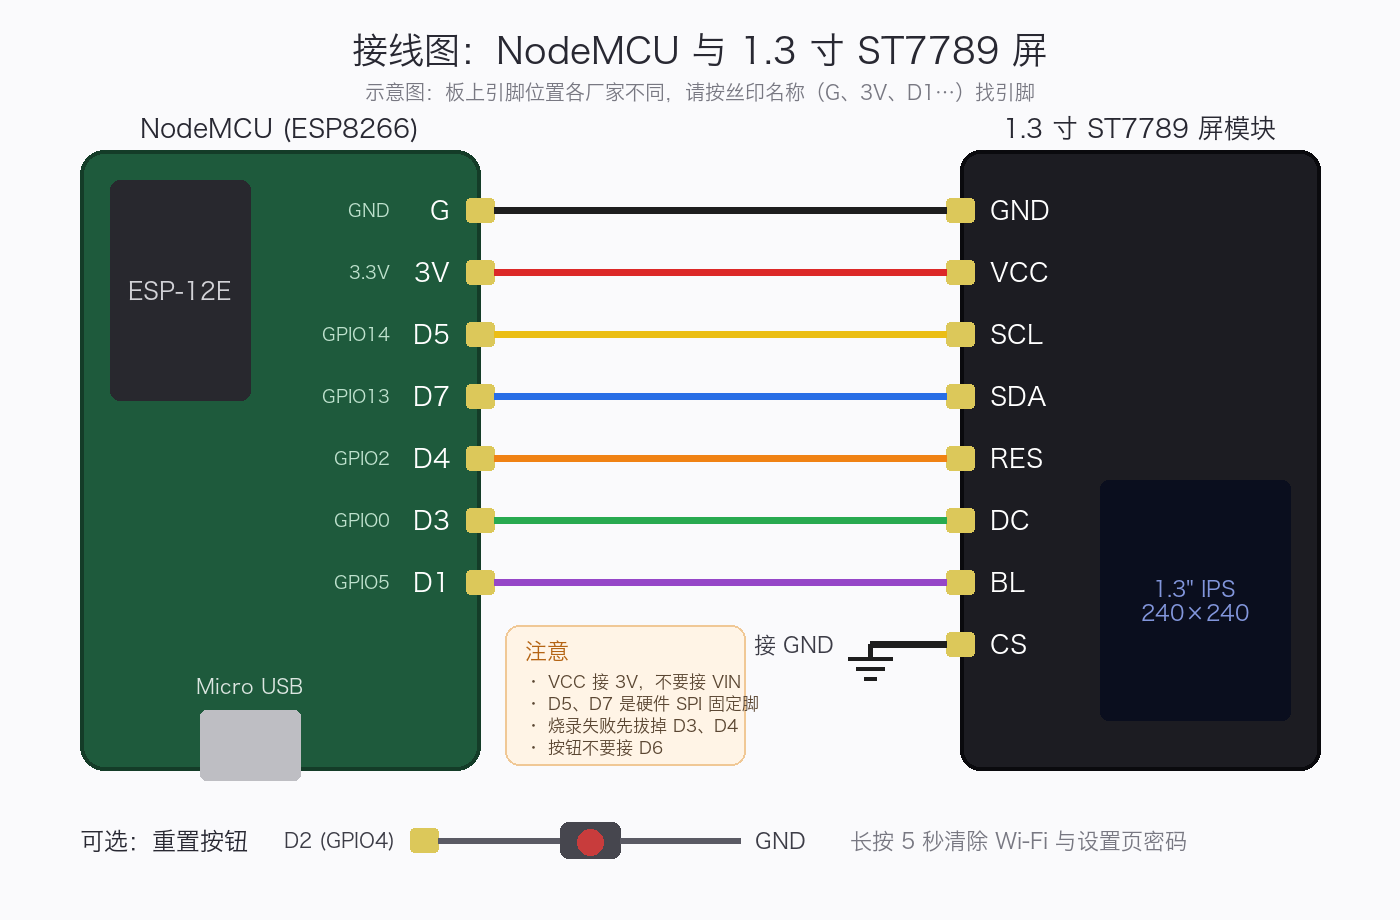
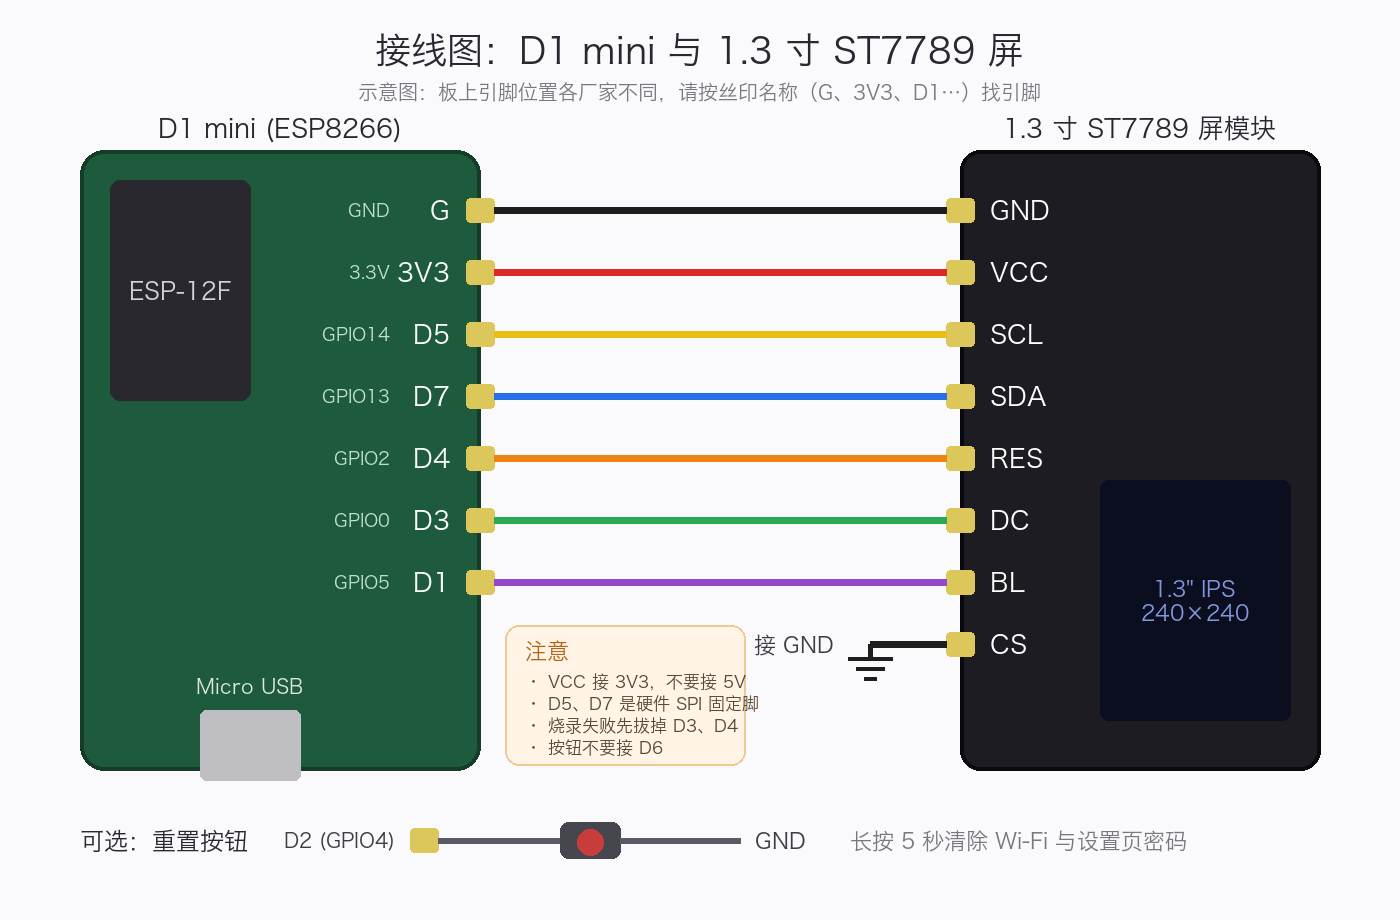
Describe the hardware as D1 mini; update wiring diagram and social image

diff --git a/README.md b/README.md
@@ -1,10 +1,10 @@
 # 爱的小时钟 (Love Clock)
 
-一个用 NodeMCU (ESP8266) 和 1.3 寸 IPS 屏做的桌面小时钟，适合当纪念日礼物。
+一个用 D1 mini (ESP8266) 和 1.3 寸 IPS 屏做的桌面小时钟，适合当纪念日礼物。
 
 <p align="center"><img src="docs/demo.jpg" alt="实物照片" width="420"></p>
 
-> **English summary:** A desk clock for anniversary gifts, built with a NodeMCU (ESP8266) and a 1.3" 240×240 ST7789 IPS display. It rotates between a clock with weather, days together, event countdowns, random photos and love quotes, and shows a full-screen celebration on special days. Everything (Wi-Fi provisioning, events, photos, quotes) is configured from a phone web page, with a Chinese / English UI. Arduino IDE project, GPL-3.0.
+> **English summary:** A desk clock for anniversary gifts, built with a D1 mini (ESP8266) and a 1.3" 240×240 ST7789 IPS display. It rotates between a clock with weather, days together, event countdowns, random photos and love quotes, and shows a full-screen celebration on special days. Everything (Wi-Fi provisioning, events, photos, quotes) is configured from a phone web page, with a Chinese / English UI. Arduino IDE project, GPL-3.0.
 
 屏幕自动轮播：时钟与天气、在一起的天数、倒数日、照片、情话。纪念日当天整天显示庆祝画面。**所有设置都在手机网页里完成，包括 Wi-Fi 配网和照片上传，不需要改代码、不需要重新烧录。**
 
@@ -42,7 +42,7 @@
 
 | 物品 | 说明 |
 |---|---|
-| ESP8266 开发板 | NodeMCU（ESP-12E），或体积更小的 **D1 mini**（ESP-12F），带 USB（CH340 或 CP2102）。3D 外壳按 D1 mini 尺寸设计 |
+| D1 mini 开发板 | ESP8266（ESP-12F），Micro USB，CH340 串口芯片。3D 外壳按它的尺寸设计 |
 | 1.3 寸 IPS 屏 | ST7789 驱动，240×240，SPI 接口，3.3V 版本 |
 | 杜邦线 | 母对母 7 根（按钮可选，再加 1 根） |
 | Micro USB 线 | 供电和烧录，请用能传数据的线 |
@@ -54,7 +54,7 @@
 
 > 左：D1 mini（ESP-12F）开发板；右：1.3 寸 240×240 ST7789 IPS 屏，正反面。
 
-两种板子的引脚丝印都是 D0～D8、G、3V，本项目的接线和代码通用；编译时开发板选 NodeMCU 1.0 即可。
+用 NodeMCU（ESP-12E）也可以：引脚丝印同样是 D0～D8、G，接线和代码通用，只是 3D 外壳装不下。
 
 1.3 寸屏模块常见 7 针或 8 针版本。7 针版本没有 CS 引脚（模块上已通过 J2 短接线接地）。本项目按"CS 接地、软件不控制 CS"设计，8 针版本的 CS 也请接 GND。
 
@@ -68,10 +68,10 @@
 
 | 文件 | 说明 | 外形尺寸（宽×厚×高） |
 |---|---|---|
-| [`stl/Body1.stl`](stl/Body1.stl) | 主体：斜面正面开屏幕窗口，背面开口，四个角有螺丝孔，用来装入屏幕和 NodeMCU | 35 × 37 × 52.2 mm |
+| [`stl/Body1.stl`](stl/Body1.stl) | 主体：斜面正面开屏幕窗口，背面开口，四个角有螺丝孔，用来装入屏幕和 D1 mini | 35 × 37 × 52.2 mm |
 | [`stl/Body2.stl`](stl/Body2.stl) | 后盖：四角螺丝孔，下方留 USB 口，外侧有浮雕文字 | 35 × 1.8 × 48 mm |
 
-装配：把屏幕和 NodeMCU 从背面装进主体，USB 线对准后盖上的开口，再用 4 颗 M2 螺丝把后盖固定在主体背面。
+装配：把屏幕和 D1 mini 从背面装进主体，USB 线对准后盖上的开口，再用 4 颗 M2 螺丝把后盖固定在主体背面。
 
 - **螺丝**：M2，长 4～6 mm，4 颗，直接自攻拧进 3D 打印件，不需要螺母。
 - **打印**：不需要支撑。
@@ -83,10 +83,10 @@
 文字版：
 
 ```
-  1.3 寸屏模块              NodeMCU
+  1.3 寸屏模块              D1 mini
  ┌───────────┐          ┌─────────────┐
  │ GND       ├──────────┤ G  (GND)    │
- │ VCC       ├──────────┤ 3V (3.3V)   │
+ │ VCC       ├──────────┤ 3V3 (3.3V)  │
  │ SCL (SCK) ├──────────┤ D5 (GPIO14) │
  │ SDA (MOSI)├──────────┤ D7 (GPIO13) │
  │ RES       ├──────────┤ D4 (GPIO2)  │
@@ -96,10 +96,10 @@
  └───────────┘          └─────────────┘
 ```
 
-| 屏幕 | NodeMCU | GPIO | 说明 |
+| 屏幕 | D1 mini | GPIO | 说明 |
 |---|---|---|---|
 | GND | G | - | 地 |
-| VCC | 3V | - | **接 3.3V，不要接 VIN/5V** |
+| VCC | 3V3 | - | **接 3.3V，不要接 VIN/5V** |
 | SCL (SCK) | D5 | 14 | 硬件 SPI 时钟 |
 | SDA (MOSI) | D7 | 13 | 硬件 SPI 数据 |
 | RES | D4 | 2 | 复位 |
@@ -170,7 +170,7 @@ section `.rodata' will not fit in region `dram0_0_seg'
 1. 按上面装好开发板包和库，打补丁。
 2. 打开 `love_clock/love_clock.ino`。
 3. 工具菜单设置：
-   - 开发板：**NodeMCU 1.0 (ESP-12E Module)**
+   - 开发板：**NodeMCU 1.0 (ESP-12E Module)**（D1 mini 实测可用；选 LOLIN(WEMOS) D1 R2 & mini 也行）
    - Flash Size：**4MB (FS:2MB OTA:~1019KB)**
    - Upload Speed：921600（不稳定就降到 115200）
    - 端口：选你的 USB 串口
@@ -235,7 +235,7 @@ Mac 上若看不到串口，需要安装 CH340 驱动（WCH 官网搜 "CH34x Mac
 | 现象 | 处理 |
 |---|---|
 | 编译报 `.rodata will not fit in region dram0_0_seg` | 没打 U8g2 补丁，见上 |
-| 编译报 `'D3' was not declared` | 开发板没选 NodeMCU 1.0；本项目已改用 GPIO 编号，更新到最新代码 |
+| 编译报 `'D3' was not declared` | 开发板没选 NodeMCU 1.0 或 LOLIN(WEMOS) D1 R2 & mini；本项目已改用 GPIO 编号，更新到最新代码 |
 | 编译报 `ArduinoJson.h` 或 `TJpg_Decoder.h` 找不到 | 对应的库没装 |
 | ArduinoJson 相关的奇怪编译错误 | 装成了 7.x，换成 6.21.5 |
 | 屏幕全白、花屏 | 检查接线；确认 `tft.init(240, 240, SPI_MODE2)` |
